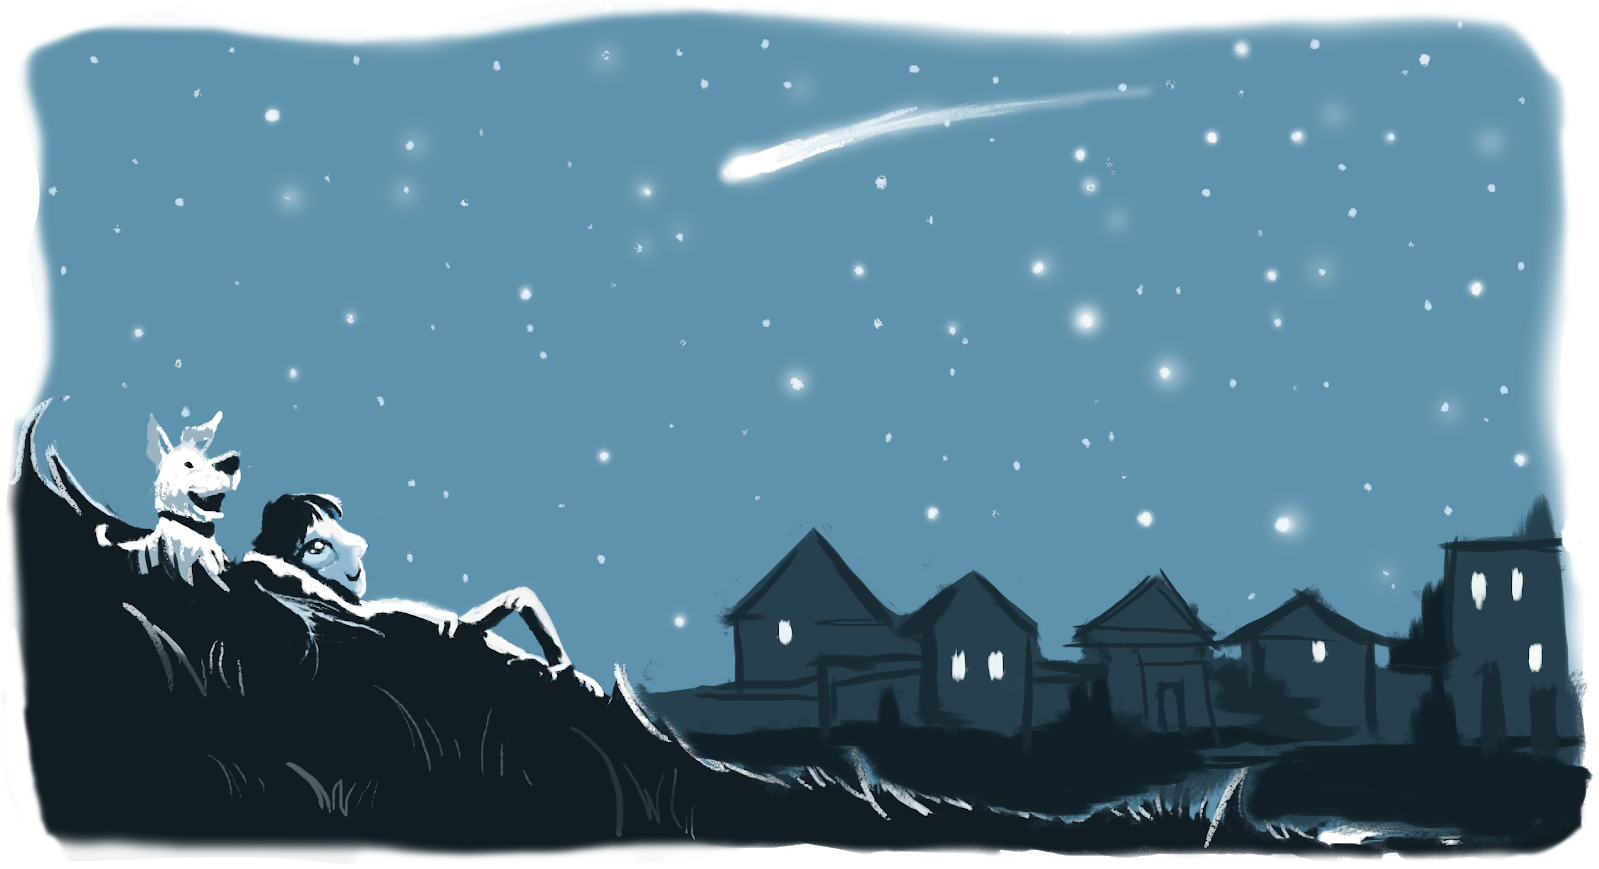
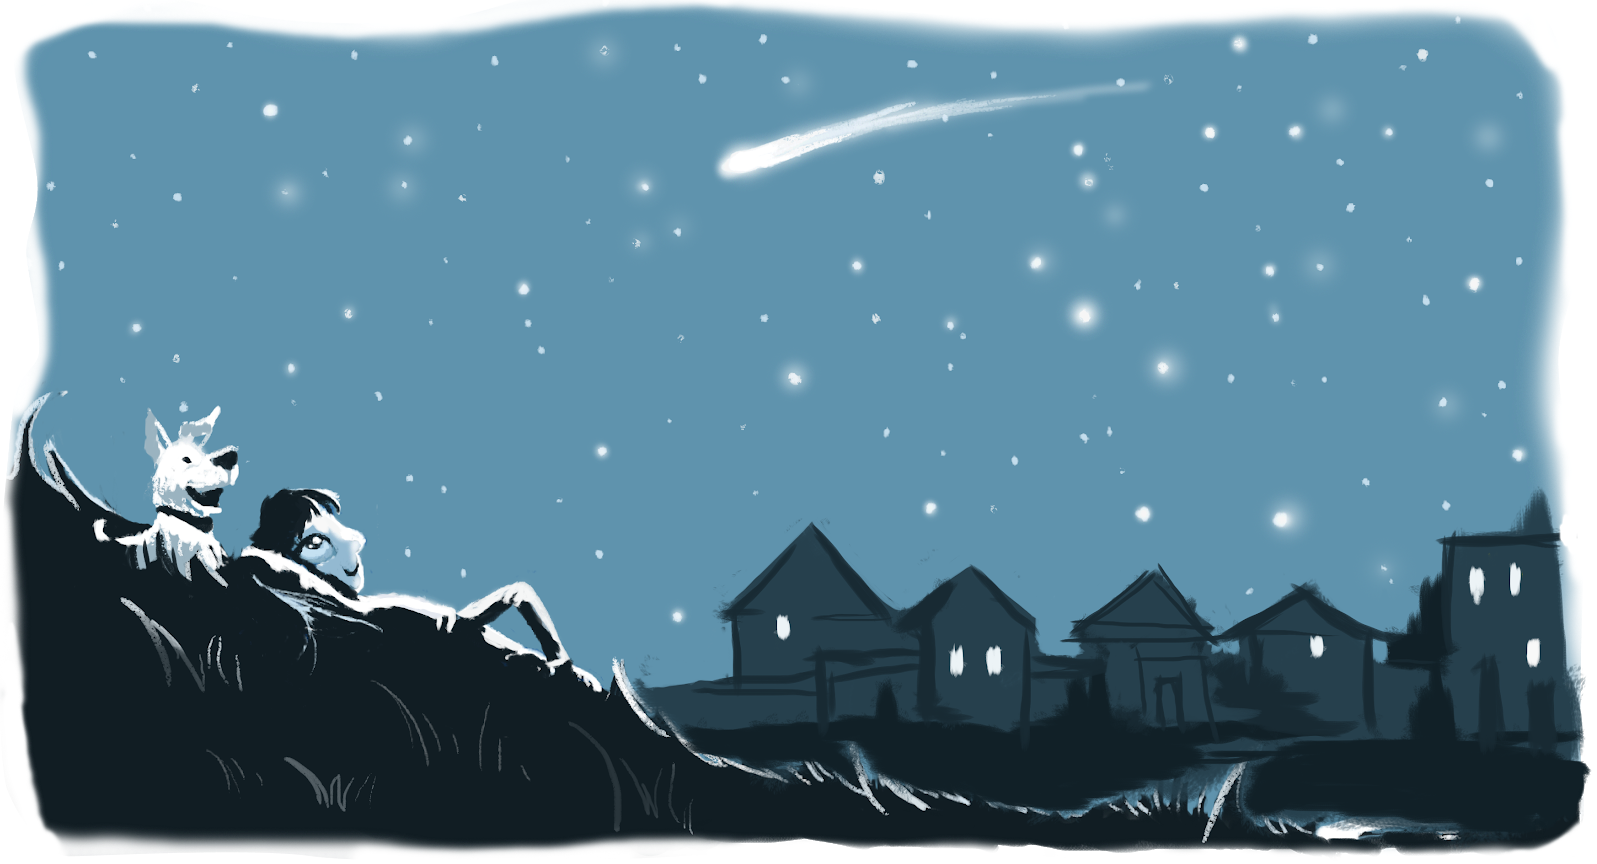
home

diff --git a/app/uxdesign/page.tsx b/app/uxdesign/page.tsx
@@ -3,7 +3,7 @@ import CEEM from "../../public/images/CEEM/ceem.gif";
 import Sandbox from "../../public/images/SandboxCopy/cover.png";
 import OnDemandLearning from "../../public/images/ODL/current/3.png";
 import NYT from "../../public/images/NYT/cover/1.png";
-import Disney from "../../public/images/Kessler/wendy-stars.jpg";
+import Disney from "../../public/images/Kessler/wendy-stars.png";
 import ProjectLasso from "../../public/images/ProjectLasso/m1/odl/a.png";
 
 const images = [
